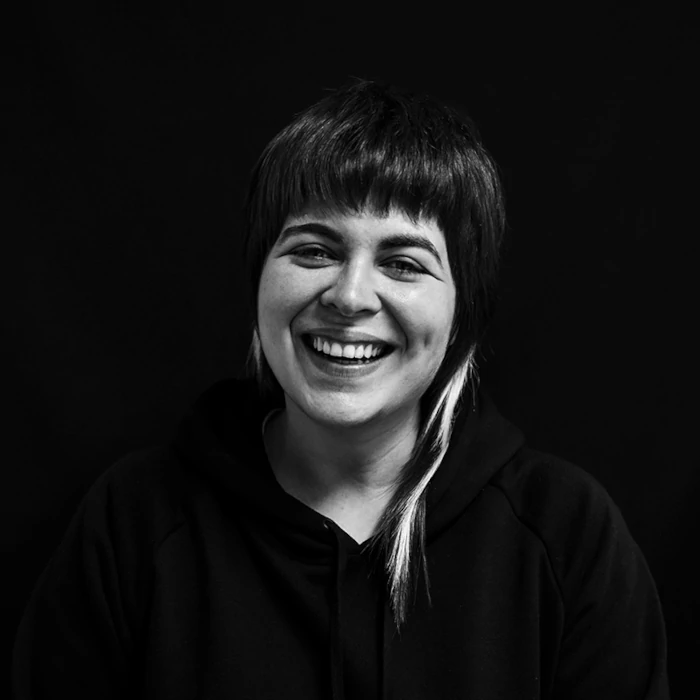
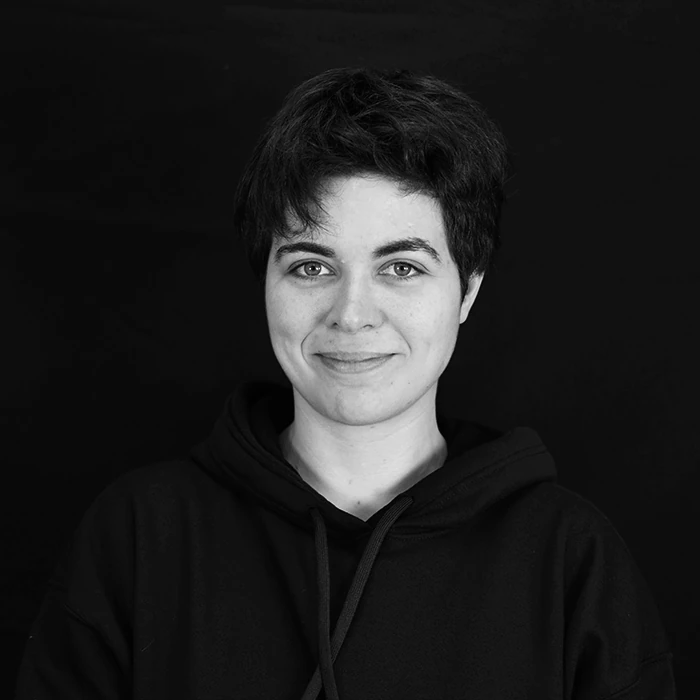
Actualizamos foto de perfil de nosotres

Changed region(s): [[0.36, 0.09, 0.72, 1.0], [0.45, 0.09, 0.48, 0.12]]

diff --git a/src/pages/nosotres.tsx b/src/pages/nosotres.tsx
@@ -11,10 +11,10 @@ const fotosNosotres = [
   <Box key="mariana">
     <StaticImage
       alt="Foto de Mari en blanco y negro"
-      src="../images/Nosotres-Mari-Web-700x700.webp"
+      src="../images/Nosotres-Sanfer-700x700.webp"
     />
     <Text fontFamily="helveticaBold" mt={3}>
-      Mariana Escobar
+      Santiago Fernández
     </Text>
   </Box>,
   <Box key="cata">
